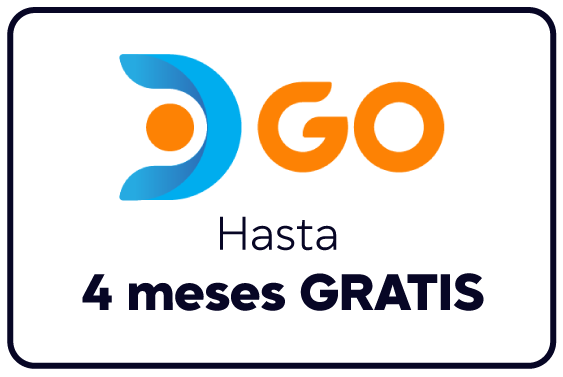
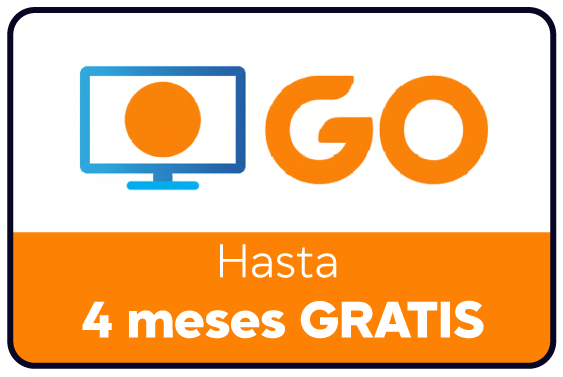
final

diff --git a/src/components/SectionFive/sectionFive.jsx b/src/components/SectionFive/sectionFive.jsx
@@ -48,141 +48,144 @@ export const SectionFive = () => {
   }, [showPopup, showInfoPopup]);
 
   // Información de los planes
-  const planInfo = {
-    esencial: {
-      title: "📦 Plan Esencial",
-      subtitle: "Disfruta de tus plataformas favoritas con un plan diseñado para uso personal, sin compartir y sin complicaciones.",
-      sections: [
-        {
-          title: "🎬 Netflix – Plan Básico",
-          items: [
-            "✔ Cuenta propia (no compartida)",
-            "✔ Incluye correo y contraseña",
-            "✔ Disponible para uso en Colombia"
-          ]
-        },
-        {
-          title: "🧡 Disney+ Premium",
-          items: [
-            "✔ Acceso premium mediante activación por enlace",
-            "✔ Exclusivo para Smart TV que generen código de activación",
-            "❗ No funciona en dispositivos sin opción de ingresar código"
-          ]
-        },
-        {
-          title: "🎁 Bonos y Obsequios Incluidos",
-          subtitle: "Con tu Plan Esencial recibes acceso gratuito por 1 mes a:",
-          items: [
-            "Canva",
-            "Crunchyroll",
-            "Deezer",
-            "Canales deportivos seleccionados",
-            "Luego del primer mes, cada plataforma tiene un costo de solo $2.000 COP."
-          ]
-        }
-      ]
-    },
-    conectado: {
-      title: "📦 Plan Conectado",
-      subtitle: "Disfruta de tus plataformas favoritas con un plan diseñado para uso personal, sin compartir y sin complicaciones.",
-      sections: [
-        {
-          title: "🎬 Netflix – Plan Básico",
-          items: [
-            "✔ Cuenta propia (no compartida)",
-            "✔ Incluye correo y contraseña",
-            "✔ Funciona en Colombia"
-          ]
-        },
-        {
-          title: "🧡 Disney+ Premium",
-          items: [
-            "✔ Acceso premium mediante activación por enlace",
-            "✔ Compatible únicamente con Smart TV que generen código de activación",
-            "❗ No funciona en dispositivos que no permitan ingresar código"
-          ]
-        },
-        {
-          title: "🔵 Prime Video",
-          items: [
-            "✔ Activación mediante enlace",
-            "✔ Solo compatible con Smart TV que generen código",
-            "❗ No disponible para dispositivos sin ingreso por código"
-          ]
-        },
-        {
-          title: "🎁 Bonos y Obsequios Incluidos",
-          subtitle: "Con tu Plan Conectado recibes acceso gratuito por 2 meses a:",
-          items: [
-            "Canva",
-            "Crunchyroll",
-            "Deezer",
-            "Canales deportivos seleccionados",
-            "Luego del segundo mes, cada plataforma tiene un costo de solo $2.000 COP."
-          ]
-        }
-      ]
-    },
-    total: {
-      title: "📦 Plan Total",
-      subtitle: "Disfruta de todas tus plataformas favoritas con un plan completo, personal y sin compartir.",
-      sections: [
-        {
-          title: "🎬 Netflix – Plan Básico",
-          items: [
-            "✔ Cuenta propia (no compartida)",
-            "✔ Incluye correo y contraseña",
-            "✔ Funciona en Colombia"
-          ]
-        },
-        {
-          title: "🧡 Disney+ Premium",
-          items: [
-            "✔ Acceso premium mediante activación por enlace",
-            "✔ Compatible únicamente con Smart TV que generen código de activación",
-            "❗ No funciona en dispositivos que no permitan ingresar código",
-            "📺 Incluye 1 pantalla"
-          ]
-        },
-        {
-          title: "🔵 Prime Video",
-          items: [
-            "✔ Activación mediante enlace",
-            "✔ Solo compatible con Smart TV que generen código",
-            "❗ No disponible en dispositivos sin ingreso por código",
-            "📺 Incluye 1 pantalla"
-          ]
-        },
-        {
-          title: "💜 Max",
-          items: [
-            "✔ Activación mediante enlace",
-            "✔ Solo compatible con Smart TV que generen código",
-            "❗ No disponible en dispositivos sin ingreso por código",
-            "📺 Incluye 1 pantalla"
-          ]
-        },
-        {
-          title: "🟣 Paramount+",
-          items: [
-            "✔ Se entrega usuario y contraseña",
-            "📺 Incluye 1 pantalla"
-          ]
-        },
-        {
-          title: "🎁 Bonos y Obsequios Incluidos",
-          subtitle: "Con tu Plan Total recibes acceso gratuito por 3 meses a:",
-          items: [
-            "Canva",
-            "Crunchyroll",
-            "Deezer",
-            "Canales deportivos seleccionados",
-            "Luego del tercer mes, cada plataforma tiene un costo de solo $2.000 COP."
-          ]
-        }
-      ]
-    }
-  };
+ const planInfo = {
+  esencial: {
+    title: "📦 Plan Esencial\nPANTALLAS",
+    subtitle: "Disfruta de tus plataformas favoritas con un plan diseñado para uso personal, sin compartir y sin complicaciones.",
+    sections: [
+      {
+        title: "🎬 Netflix – Plan Básico",
+        items: [
+          "✔ Cuenta propia (no compartida)",
+          "✔ Incluye correo y contraseña",
+          "✔ Disponible para uso en Colombia"
+        ]
+      },
+      {
+        title: "🧡 Disney+ Premium",
+        items: [
+          "✔ Acceso premium mediante activación por enlace",
+          "✔ Exclusivo para Smart TV que generen código de activación",
+          "❗ No funciona en dispositivos sin opción de ingresar código"
+        ]
+      },
+      {
+        title: "🎁 Bonos y Obsequios Incluidos",
+        subtitle: "Con tu Plan Esencial recibes acceso gratuito por 1 mes a:",
+        items: [
+          "Canva",
+          "Crunchyroll",
+          "Deezer",
+          "Canales deportivos seleccionados",
+          "Luego del primer mes, cada plataforma tiene un costo de solo $2.000 COP."
+        ]
+      }
+    ]
+  },
+
+  conectado: {
+    title: "📦 Plan Conectado\nPANTALLAS",
+    subtitle: "Disfruta de tus plataformas favoritas con un plan diseñado para uso personal, sin compartir y sin complicaciones.",
+    sections: [
+      {
+        title: "🎬 Netflix – Plan Básico",
+        items: [
+          "✔ Cuenta propia (no compartida)",
+          "✔ Incluye correo y contraseña",
+          "✔ Funciona en Colombia"
+        ]
+      },
+      {
+        title: "🧡 Disney+ Premium PANTALLAS",
+        items: [
+          "✔ Acceso premium mediante activación por enlace",
+          "✔ Compatible únicamente con Smart TV que generen código de activación",
+          "❗ No funciona en dispositivos que no permitan ingresar código"
+        ]
+      },
+      {
+        title: "🔵 Prime Video",
+        items: [
+          "✔ Activación mediante enlace",
+          "✔ Solo compatible con Smart TV que generen código",
+          "❗ No disponible para dispositivos sin ingreso por código"
+        ]
+      },
+      {
+        title: "🎁 Bonos y Obsequios Incluidos",
+        subtitle: "Con tu Plan Conectado recibes acceso gratuito por 2 meses a:",
+        items: [
+          "Canva",
+          "Crunchyroll",
+          "Deezer",
+          "Canales deportivos seleccionados",
+          "Luego del segundo mes, cada plataforma tiene un costo de solo $2.000 COP."
+        ]
+      }
+    ]
+  },
+
+  total: {
+    title: "📦 Plan Total\nPANTALLAS",
+    subtitle: "Disfruta de todas tus plataformas favoritas con un plan completo, personal y sin compartir.",
+    sections: [
+      {
+        title: "🎬 Netflix – Plan Básico",
+        items: [
+          "✔ Cuenta propia (no compartida)",
+          "✔ Incluye correo y contraseña",
+          "✔ Funciona en Colombia"
+        ]
+      },
+      {
+        title: "🧡 Disney+ Premium",
+        items: [
+          "✔ Acceso premium mediante activación por enlace",
+          "✔ Compatible únicamente con Smart TV que generen código de activación",
+          "❗ No funciona en dispositivos que no permitan ingresar código",
+          "📺 Incluye 1 pantalla"
+        ]
+      },
+      {
+        title: "🔵 Prime Video",
+        items: [
+          "✔ Activación mediante enlace",
+          "✔ Solo compatible con Smart TV que generen código",
+          "❗ No disponible en dispositivos sin ingreso por código",
+          "📺 Incluye 1 pantalla"
+        ]
+      },
+      {
+        title: "💜 Max",
+        items: [
+          "✔ Activación mediante enlace",
+          "✔ Solo compatible con Smart TV que generen código",
+          "❗ No disponible en dispositivos sin ingreso por código",
+          "📺 Incluye 1 pantalla"
+        ]
+      },
+      {
+        title: "🟣 Paramount+",
+        items: [
+          "✔ Se entrega usuario y contraseña",
+          "📺 Incluye 1 pantalla"
+        ]
+      },
+      {
+        title: "🎁 Bonos y Obsequios Incluidos",
+        subtitle: "Con tu Plan Total recibes acceso gratuito por 3 meses a:",
+        items: [
+          "Canva",
+          "Crunchyroll",
+          "Deezer",
+          "Canales deportivos seleccionados",
+          "Luego del tercer mes, cada plataforma tiene un costo de solo $2.000 COP."
+        ]
+      }
+    ]
+  }
+};
+
 
   // Funciones para manejar los clicks de "conocer más"
   const handleConocerMasConectado = () => {

diff --git a/src/components/Hero/Hero.jsx b/src/components/Hero/Hero.jsx
@@ -23,7 +23,7 @@ export const Hero = () => {
   const [current, setCurrent] = useState(0); 
   const timerRef = useRef(); 
  
-  const images = [netflix, tarjeta1 ,spotify,tarjeta2, canva,tarjeta3, disney, tarjeta4, max, crunchy,paramount,prime];  
+  const images = [netflix, tarjeta1 ,spotify,tarjeta2, canva,tarjeta3, disney, tarjeta4, max, crunchy,paramount,prime, directvgo];  
  
   const next = () => { 
     setCurrent((prev) => (prev + 1) % images.length); 

diff --git a/src/components/Hero/Hero.css b/src/components/Hero/Hero.css
@@ -129,8 +129,8 @@
 }
 
 .slide img {
-  width: 180px;
-  height: 120px;
+  width: 220px;
+  height: 130px;
   border-radius: 16px;
   box-shadow: 0 0 15px rgba(0, 0, 0, 0.3);
 }
